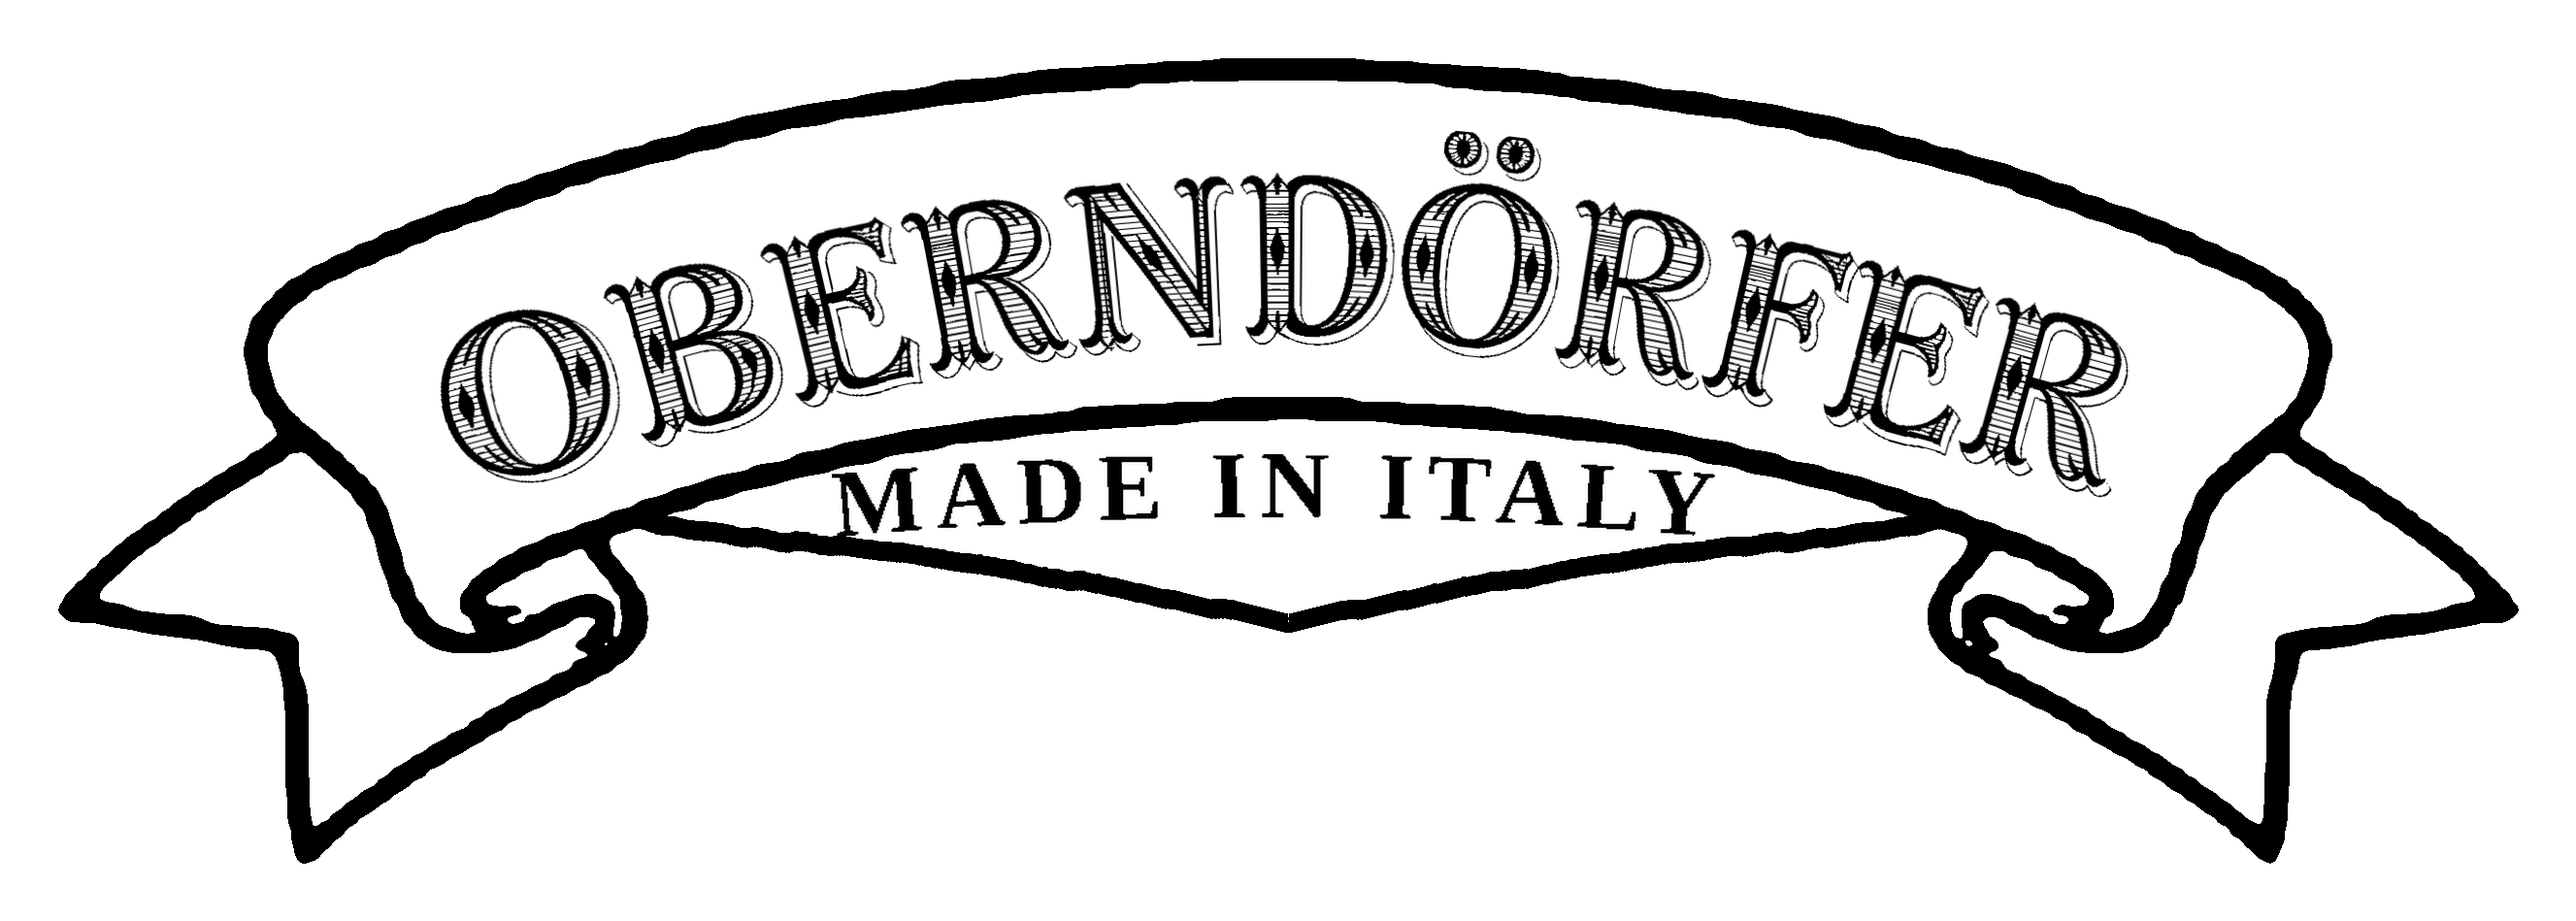
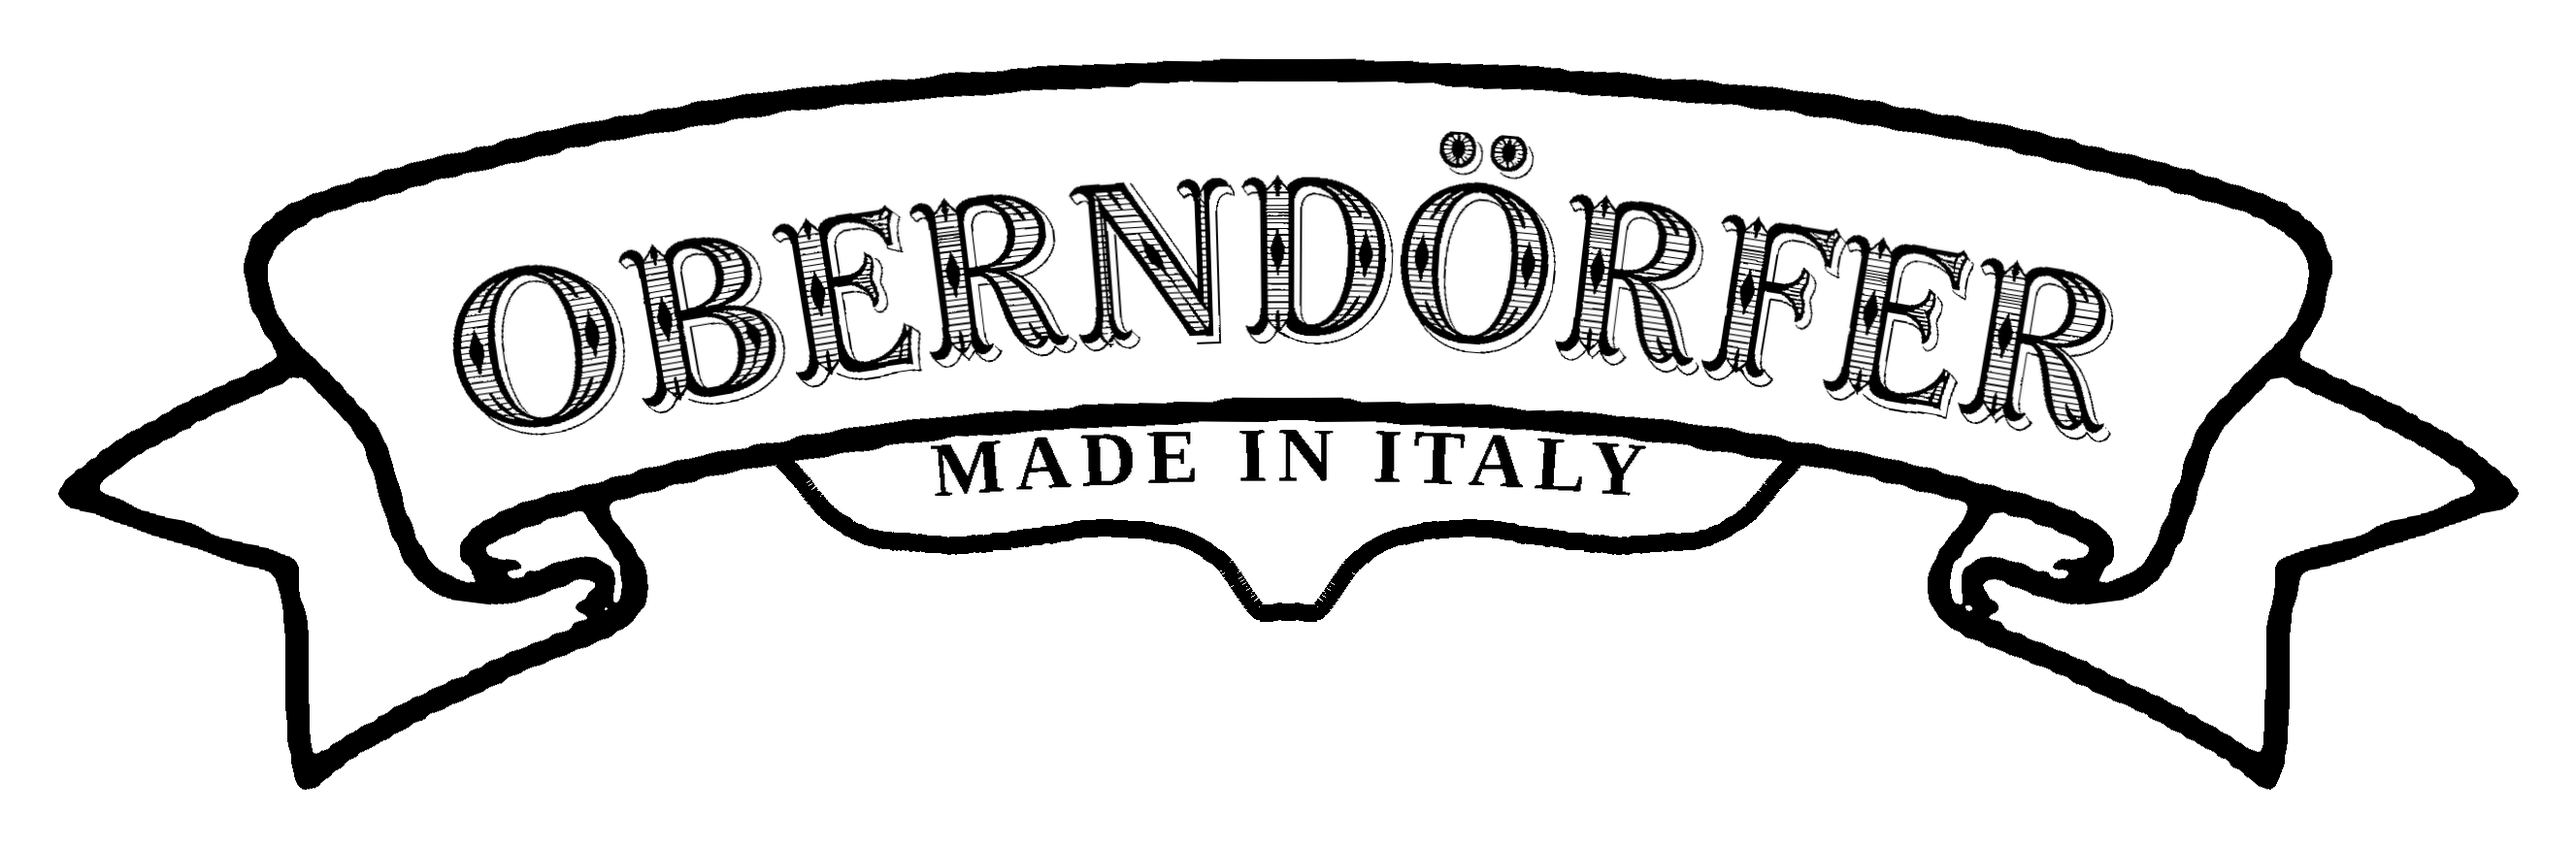
Trace the swag's real curve from 46.png; flatten the ribbon's arc
The swag was being drawn as a V. The traced profile from the owner's
own 46.png is nothing like that: it drops steeply at the ends, runs
almost flat at ~46% depth across the middle, and carries a small
droplet at the centre. That profile is now sampled and reused directly.

Ribbon arc scaled to 0.55 of as-drawn per the owner's note, by a
column-wise warp that scales each column's deviation from the centre.
Everything downstream re-fits to the flattened curve automatically.

Lettering is placed against the ribbon's actual outline bottom, not the
band-face edge, so it no longer tucks under the rule.

Claude-Session: https://claude.ai/code/session_01Suw872BgehQS8UkrxB9n1u

diff --git a/assets/oberndorfer-plate/chosen/swag2.py b/assets/oberndorfer-plate/chosen/swag2.py
@@ -1,0 +1,62 @@
+import numpy as np, math, sys, importlib.util
+from PIL import Image, ImageDraw
+H="/tmp/claude-0/-home-user-one/e41bc041-1735-5f25-b722-feca72576a19/scratchpad/w2"
+sys.path.insert(0,H)
+spec=importlib.util.spec_from_file_location("lk",H+"/lockup.py")
+lk=importlib.util.module_from_spec(spec); spec.loader.exec_module(lk)
+t1,f1 = lk.t1, lk.f1
+RW,RH=t1.size
+MII=Image.open(H+"/mii.png").convert("RGBA")
+STROKE=18
+
+prof=np.load(H+"/swag-profile.npy")
+pt,pd = prof[0], prof[1]
+# symmetrise and smooth the traced profile
+grid=np.linspace(-1,1,401)
+d1=np.interp(grid,pt,pd); d2=np.interp(-grid,pt,pd)
+d=(d1+d2)/2.0
+k=15; ker=np.ones(k)/k
+d=np.convolve(np.pad(d,(k,k),mode='edge'),ker,mode='same')[k:-k]
+d=np.clip(d,0,None); d/=d.max()
+
+ybf=np.full(RW,-1)
+for x in range(RW):
+    ys=np.where(f1[:,x])[0]
+    if len(ys): ybf[x]=ys[-1]
+valid=np.where(ybf>=0)[0]; cxm=(valid[0]+valid[-1])//2
+
+SPAN=int(RW*0.42)
+DEPTH=int(SPAN*0.21)
+xa,xb=cxm-SPAN//2, cxm+SPAN//2
+# where does the ribbon's OUTLINE actually end at the centre?
+t1ink=(np.asarray(t1)[:,:,3]>40)&(np.asarray(t1)[:,:,:3].mean(axis=2)<140)
+y=int(ybf[cxm])
+while y+1<RH and t1ink[y+1,cxm]: y+=1
+EDGE=y
+FLAT=DEPTH*float(np.interp(0.5,grid,d))      # depth of the flat run
+avail=(ybf[cxm]+FLAT)-EDGE-STROKE
+print("edge",EDGE,"face bottom",ybf[cxm],"flat depth %.0f"%FLAT,"avail",avail)
+sc=min((SPAN*0.78)/MII.width, (avail*0.76)/MII.height)
+mii=MII.resize((max(1,int(MII.width*sc)),max(1,int(MII.height*sc))),Image.LANCZOS)
+
+PAD=110
+CW=RW+2*PAD; CH=RH+2*PAD+DEPTH+120
+cv=Image.new("RGBA",(CW,CH),(255,255,255,255))
+top=[];bot=[]
+for x in range(xa,xb+1):
+    t=(x-cxm)/(SPAN/2.0)
+    yt=ybf[x]
+    yb=yt+DEPTH*float(np.interp(t,grid,d))
+    top.append((PAD+x,PAD+yt)); bot.append((PAD+x,PAD+yb))
+sw=Image.new("RGBA",(CW,CH),(0,0,0,0)); dr=ImageDraw.Draw(sw)
+dr.polygon(top+bot[::-1], fill=(255,255,255,255))
+dr.line(bot, fill=(0,0,0,255), width=STROKE, joint="curve")
+cv.alpha_composite(sw,(0,0))
+ytxt = PAD+EDGE + (avail - mii.height)/2
+cv.alpha_composite(mii,((CW-mii.width)//2, int(ytxt)))
+cv.alpha_composite(t1,(PAD,PAD))
+a=np.asarray(cv.convert("RGB")).mean(axis=2); m=a<200
+yy=np.where(m.any(axis=1))[0]; xx=np.where(m.any(axis=0))[0]
+P=60
+cv.convert("RGB").crop((max(0,xx[0]-P),max(0,yy[0]-P),min(CW,xx[-1]+P),min(CH,yy[-1]+P))).save(H+"/mark-swag2.png")
+print("span",SPAN,"depth",DEPTH,"text",mii.size,"->",Image.open(H+"/mark-swag2.png").size)

diff --git a/assets/oberndorfer-plate/chosen/lockup.py b/assets/oberndorfer-plate/chosen/lockup.py
@@ -32,7 +32,44 @@ def ribbon_bw(scale):
     rgb=np.where(outline[...,None],0.0,255.0).repeat(3,axis=2)
     al=np.where(inside,255,0).astype(np.uint8)
     im=Image.fromarray(np.dstack([rgb.astype(np.uint8),al]),"RGBA")
-    return im
+    return flatten(im, FLATTEN)
+
+FLATTEN=0.55   # 1.0 = as drawn, lower = less bend
+
+def flatten(im, k):
+    """Reduce the ribbon's arc by scaling each column's deviation from the centre."""
+    if k>=0.999: return im
+    face=face_of(im)
+    Hh,Ww=face.shape
+    cx=[];cy=[]
+    for x in range(Ww):
+        ys=np.where(face[:,x])[0]
+        if len(ys)>8: cx.append(x); cy.append((ys[0]+ys[-1])/2.0)
+    cx=np.array(cx,float); cy=np.array(cy,float)
+    CO=np.polyfit(cx,cy,2)
+    h=-CO[1]/(2*CO[0])
+    allx=np.arange(Ww,dtype=np.float32)
+    yc=np.polyval(CO,allx); ych=float(np.polyval(CO,h))
+    dy=(k-1.0)*(yc-ych)                      # ends rise, centre fixed
+    src=np.asarray(im).astype(np.float32)/255.0
+    P=np.concatenate([src[:,:,:3]*src[:,:,3:4], src[:,:,3:4]],axis=2)
+    pad=int(abs(dy).max())+4
+    OH=Hh+2*pad
+    Yg,Xg=np.meshgrid(np.arange(OH,dtype=np.float32)-pad,
+                      np.arange(Ww,dtype=np.float32), indexing="ij")
+    sy=Yg-dy[None,:]
+    y0=np.floor(sy).astype(np.int32); fy=(sy-y0)[...,None]
+    xi=Xg.astype(np.int32)
+    def at(iy):
+        ok=(iy>=0)&(iy<Hh)
+        return P[np.clip(iy,0,Hh-1),xi]*ok[...,None]
+    o=at(y0)*(1-fy)+at(y0+1)*fy
+    al2=np.clip(o[:,:,3:4],0,1)
+    col=np.where(al2>1e-5,o[:,:,:3]/np.maximum(al2,1e-5),1.0)
+    out=Image.fromarray((np.concatenate([np.clip(col,0,1),al2],axis=2)*255).astype(np.uint8),"RGBA")
+    a=np.asarray(out)[:,:,3]
+    yy=np.where(a.any(axis=1))[0]; xx=np.where(a.any(axis=0))[0]
+    return out.crop((xx[0],yy[0],xx[-1]+1,yy[-1]+1))
 
 def face_of(im):
     a=np.asarray(im.convert("RGBA"))

diff --git a/assets/oberndorfer-plate/DIRECTION.md b/assets/oberndorfer-plate/DIRECTION.md
@@ -3,7 +3,7 @@
 Single source of truth. When this disagrees with anything earlier in
 any chat, THIS WINS. Update it the moment a decision changes.
 
-Last changed: 2026-11-18 (swag)
+Last changed: 2026-11-19
 
 ## The five decisions
 
@@ -13,7 +13,7 @@ Last changed: 2026-11-18 (swag)
 | **Letterform** | one of the four below — not yet chosen | |
 | **Treatment** | engraved/inline detail for print; a solid cut for the die | 11-13 |
 | **Where it goes** | leather hot stamp + print | 11-12 |
-| **Bend** | bent, and the bend comes FROM the ribbon, not chosen | 11-15 |
+| **Bend** | bent, but FLATTENED: the chosen ribbon's own arc scaled to 0.55 of as-drawn (11-19). The bend still comes from the ribbon, it is just reduced | 11-19 |
 
 ## The assets that matter
 
